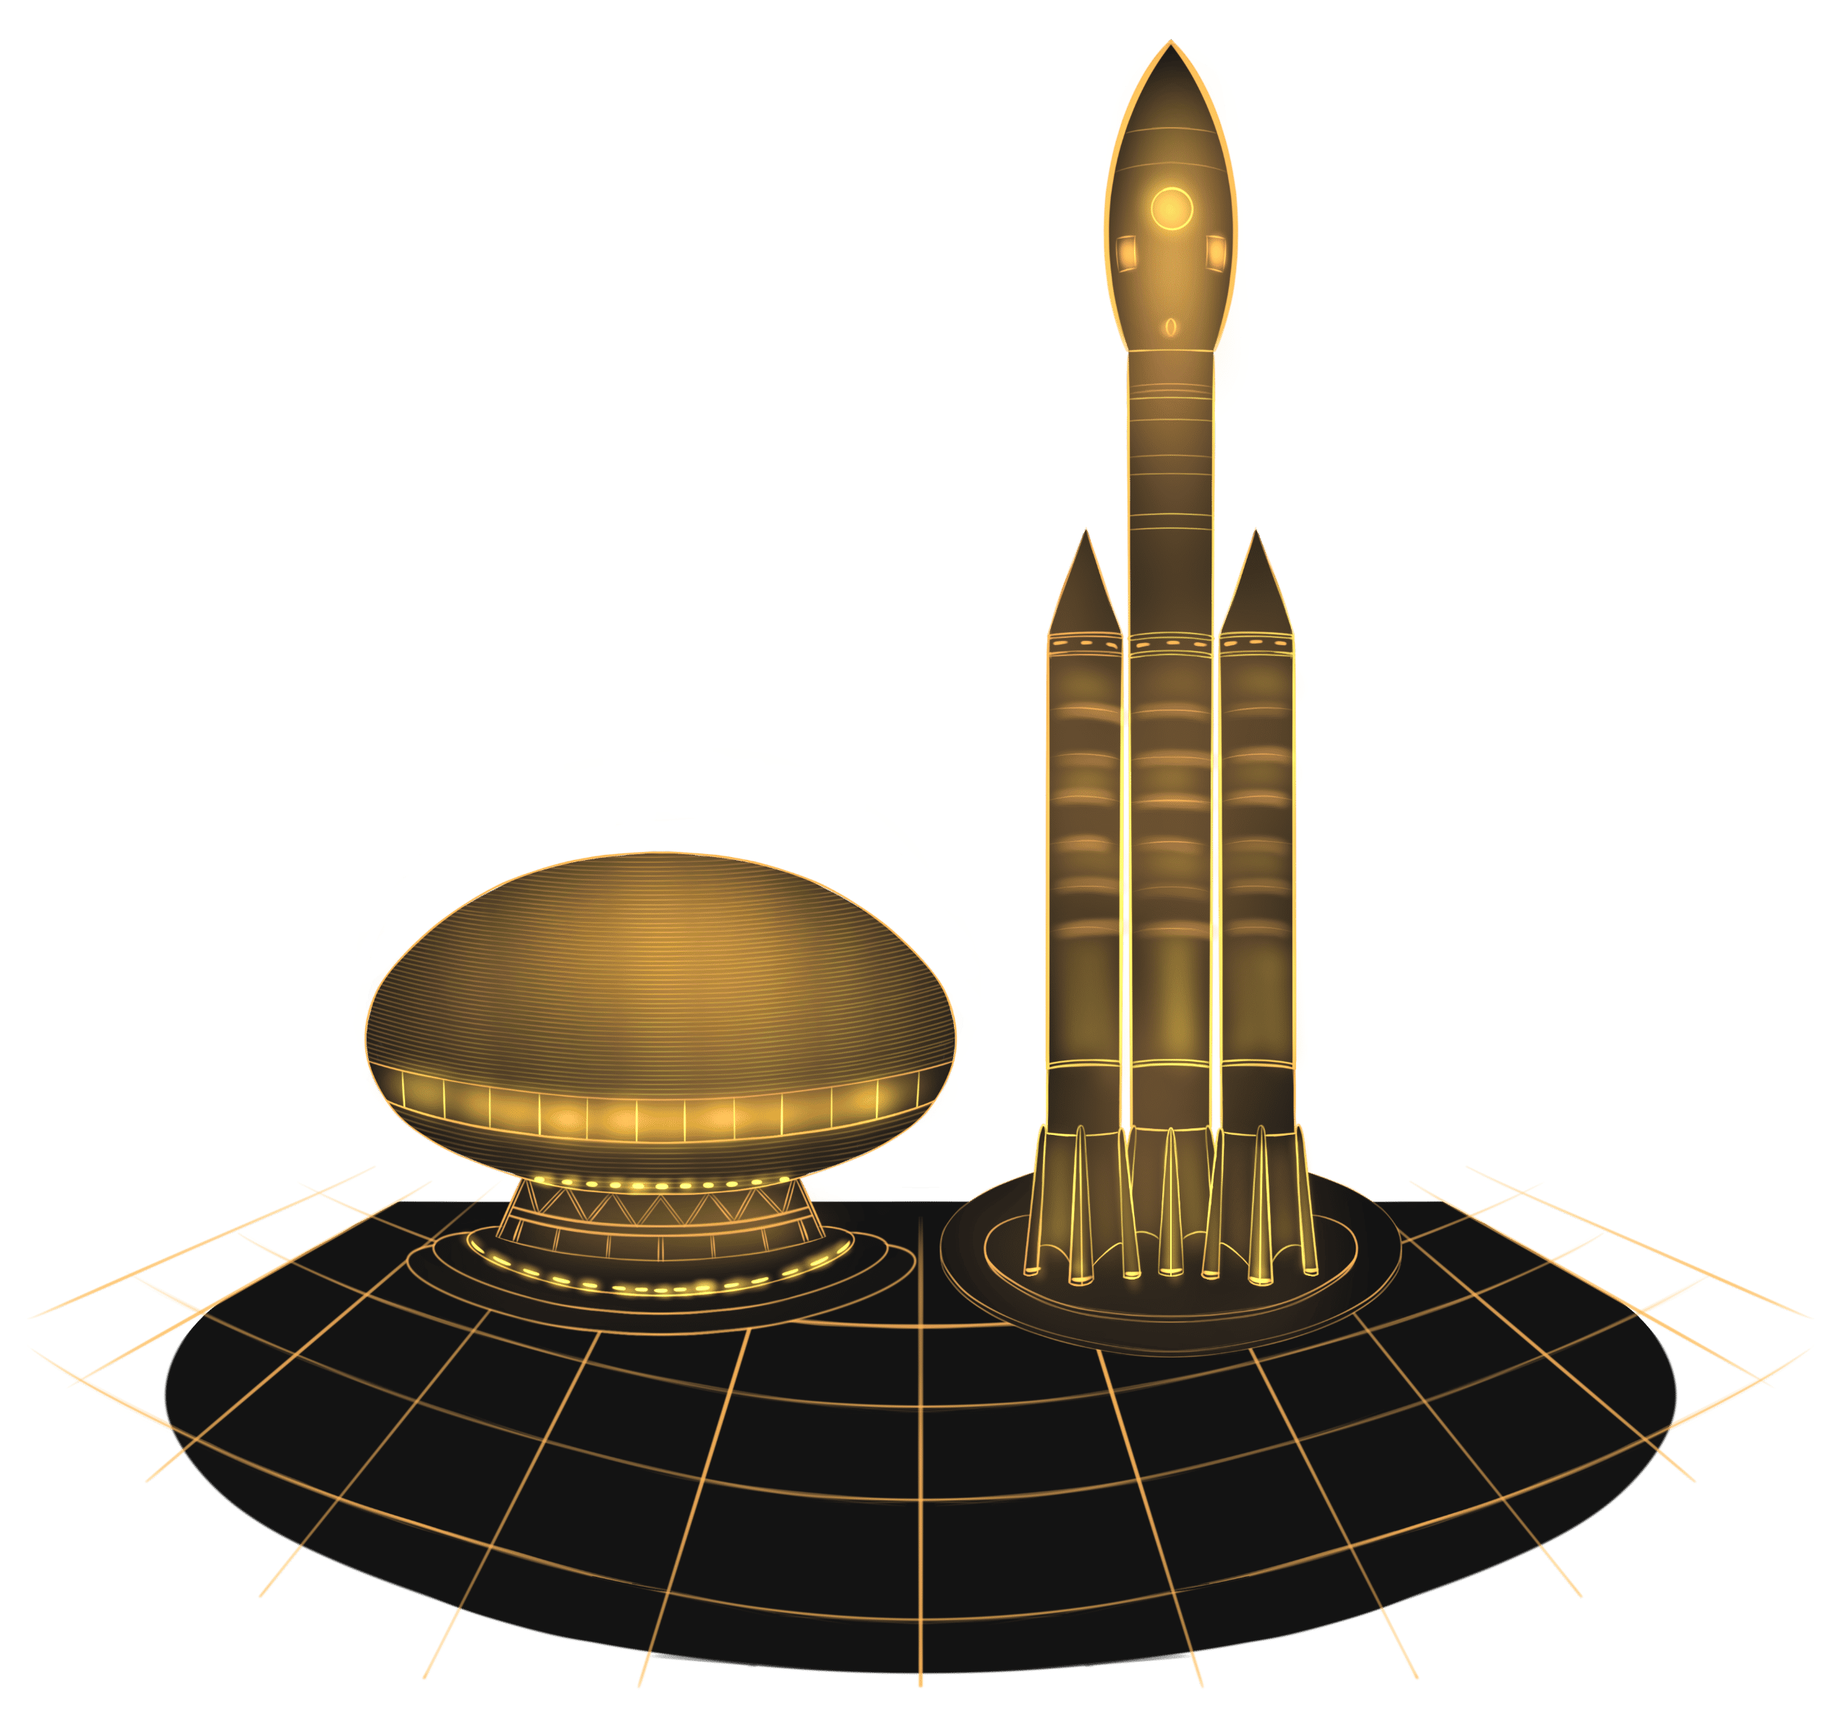
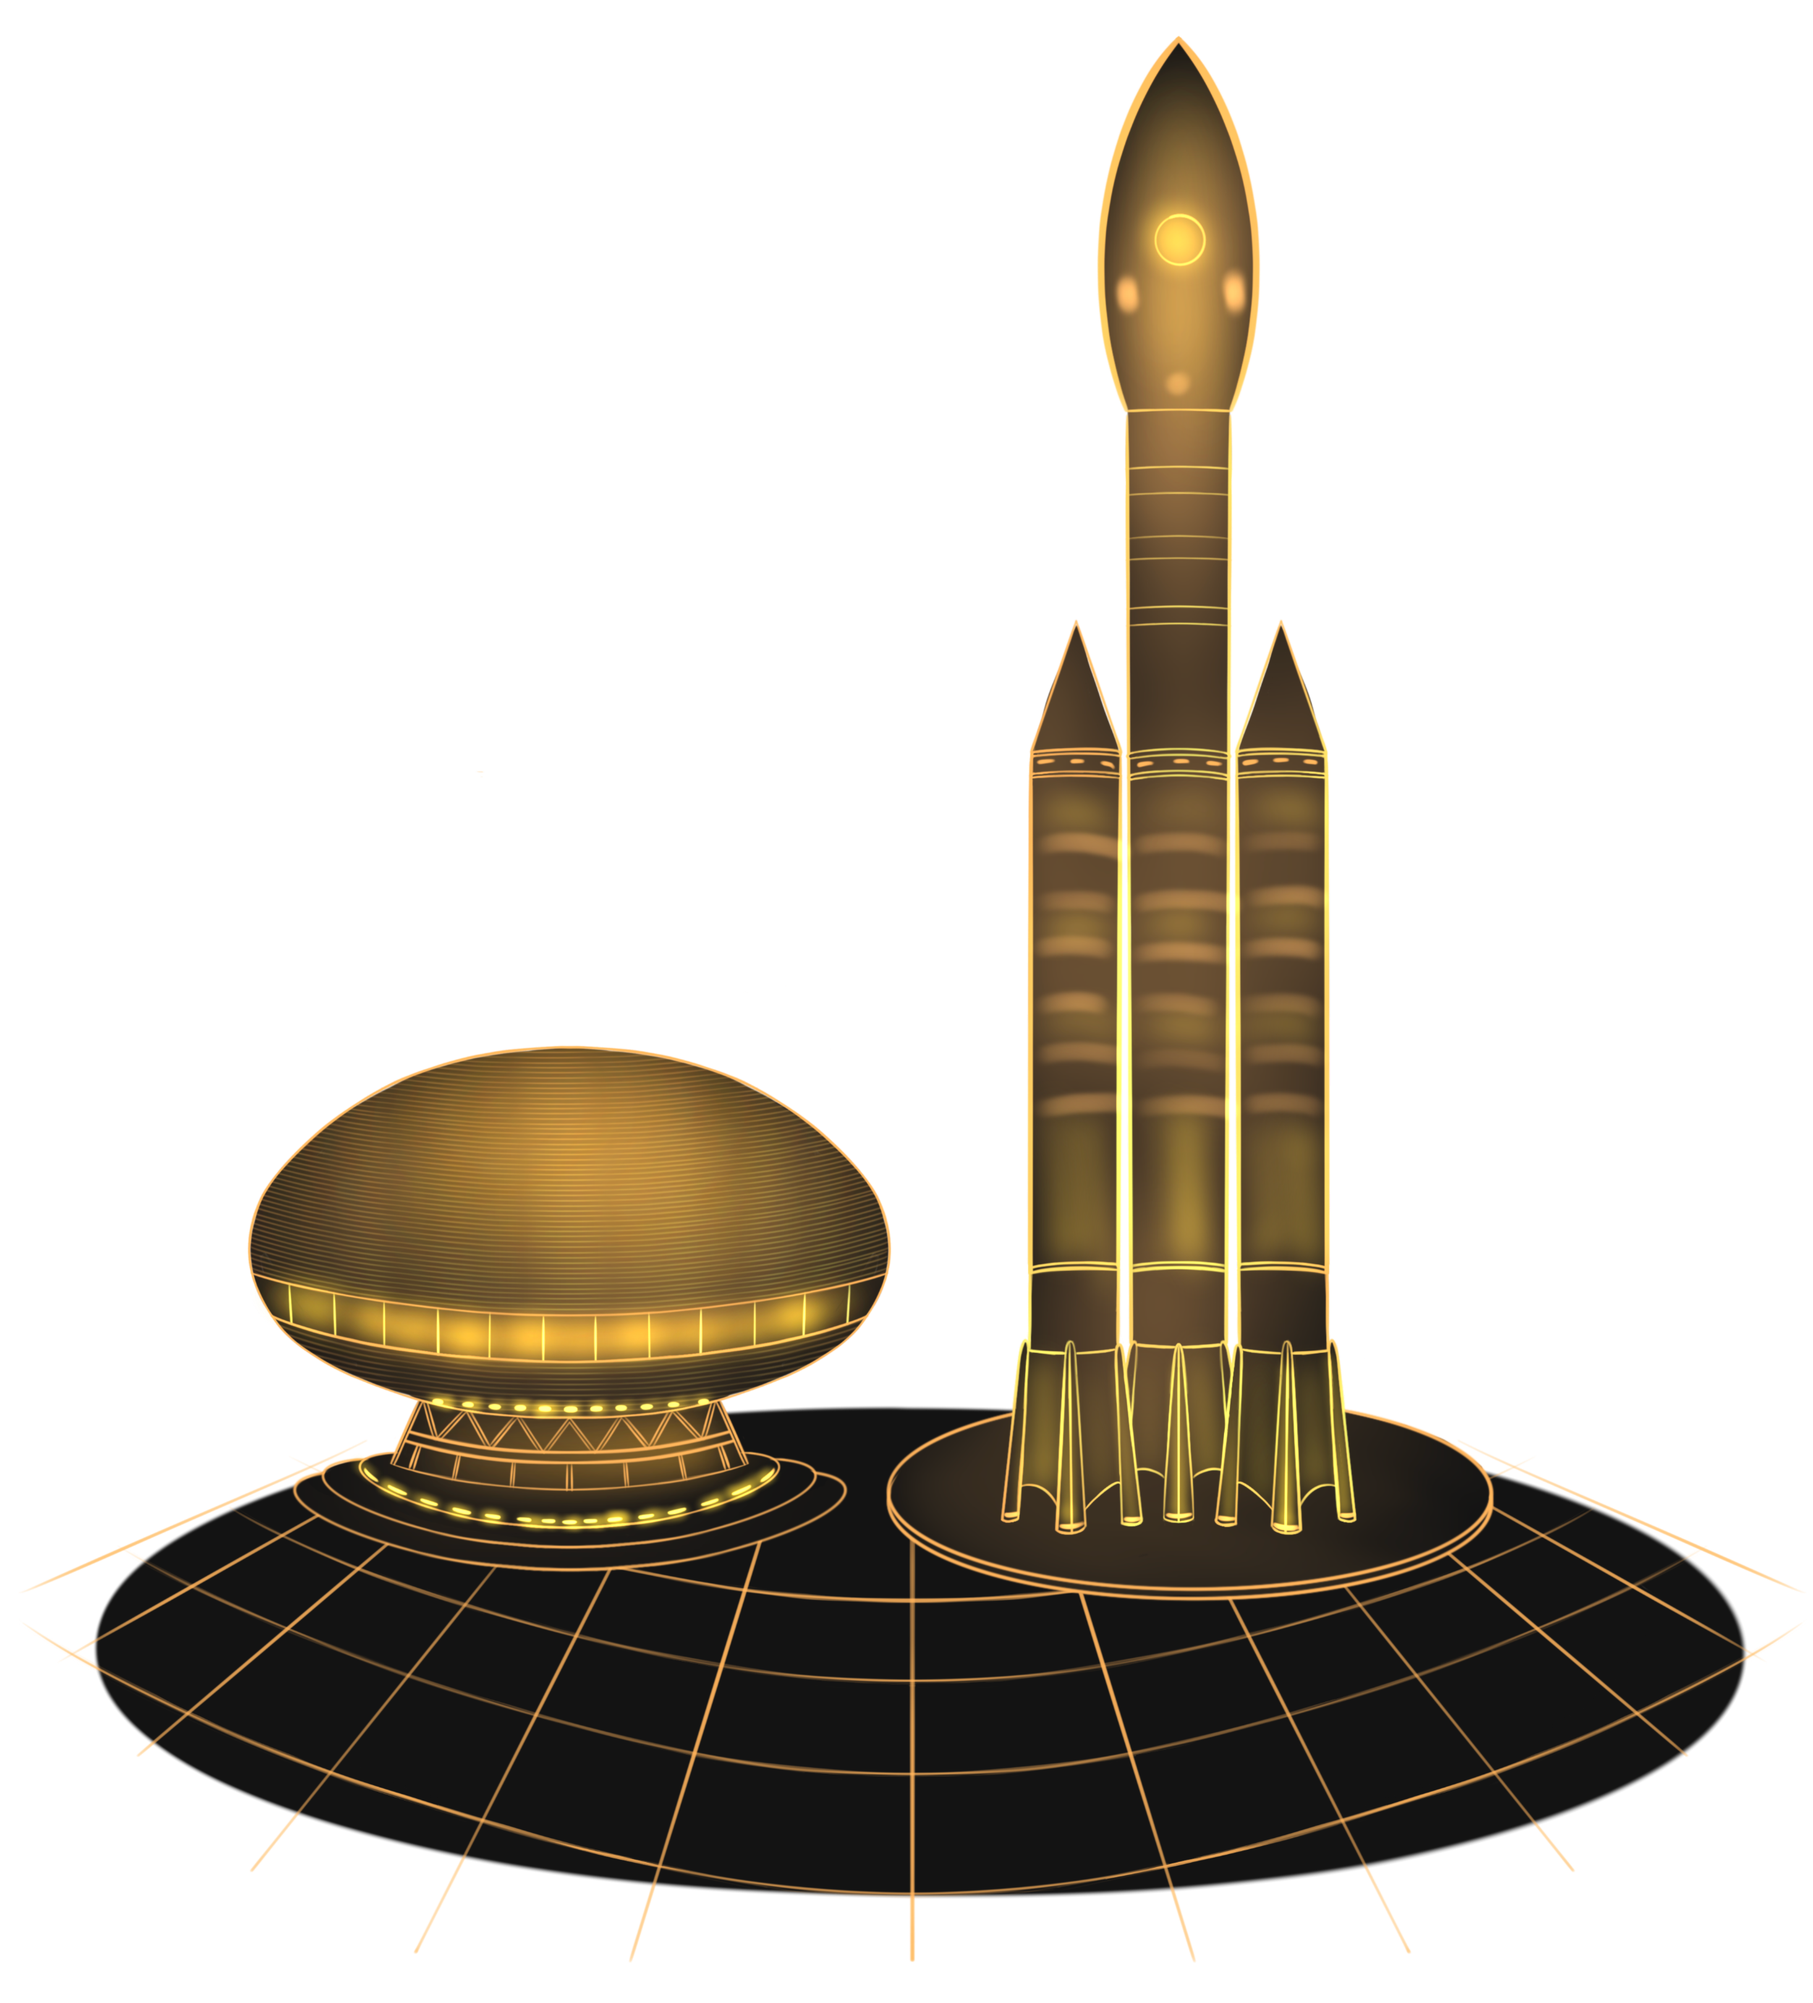
feat: add rocket and timer

Changed region(s): [[0.0311, 0.0, 0.9649, 0.9912]]

diff --git a/src/pages/cosmoport/cosmoport.ts b/src/pages/cosmoport/cosmoport.ts
@@ -2,36 +2,62 @@ function startCountdown() {
   const timerElement = document.getElementById('timer') as HTMLElement;
   if (!timerElement) return;
 
-  const timeParts = timerElement.textContent?.split(' : ').map(Number);
-  if (!timeParts || timeParts.length !== 3) return;
+  const STORAGE_KEY = 'countdown_time';
+  const START_TIME_KEY = 'countdown_start_time';
 
-  let hours = timeParts[0];
-  let minutes = timeParts[1];
-  let seconds = timeParts[2];
+  const initialParts = timerElement.textContent?.split(' : ').map(Number);
+  const totalSeconds =
+    (initialParts?.[0] || 0) * 3600 +
+    (initialParts?.[1] || 0) * 60 +
+    (initialParts?.[2] || 0);
 
-  function updateTimer() {
-    timerElement.textContent = `${hours.toString().padStart(2, '0')} : ${minutes.toString().padStart(2, '0')} : ${seconds.toString().padStart(2, '0')}`;
+  const savedStart = localStorage.getItem(START_TIME_KEY);
+  const now = Date.now();
 
-    if (hours === 0 && minutes === 0 && seconds === 0) {
+  let remainingSeconds: number;
+
+  if (savedStart) {
+    const elapsedSeconds = Math.floor((now - Number(savedStart)) / 1000);
+    remainingSeconds = Math.max(0, totalSeconds - elapsedSeconds);
+  } else {
+    localStorage.setItem(START_TIME_KEY, String(now));
+    remainingSeconds = totalSeconds;
+  }
+
+  function updateDisplay(seconds: number) {
+    const h = Math.floor(seconds / 3600);
+    const m = Math.floor((seconds % 3600) / 60);
+    const s = seconds % 60;
+    timerElement.textContent = `${h.toString().padStart(2, '0')} : ${m.toString().padStart(2, '0')} : ${s.toString().padStart(2, '0')}`;
+  }
+
+  updateDisplay(remainingSeconds);
+
+  if (remainingSeconds <= 0) {
+    timerElement.textContent = '00 : 00 : 00';
+    timerElement.style.color = 'red';
+    localStorage.removeItem(START_TIME_KEY);
+    localStorage.removeItem(STORAGE_KEY);
+    return;
+  }
+
+  const interval = setInterval(() => {
+    const currentStart = Number(
+      localStorage.getItem(START_TIME_KEY) || Date.now()
+    );
+    const elapsed = Math.floor((Date.now() - currentStart) / 1000);
+    const remaining = Math.max(0, totalSeconds - elapsed);
+
+    updateDisplay(remaining);
+
+    if (remaining <= 0) {
       clearInterval(interval);
       timerElement.textContent = '00 : 00 : 00';
       timerElement.style.color = 'red';
-      return;
+      localStorage.removeItem(START_TIME_KEY);
+      localStorage.removeItem(STORAGE_KEY);
     }
-
-    if (seconds > 0) {
-      seconds--;
-    } else if (minutes > 0) {
-      minutes--;
-      seconds = 59;
-    } else if (hours > 0) {
-      hours--;
-      minutes = 59;
-      seconds = 59;
-    }
-  }
-
-  const interval = setInterval(updateTimer, 1000);
+  }, 1000);
 
   window.addEventListener('beforeunload', () => clearInterval(interval));
   document.addEventListener('astro:before-swap', () => clearInterval(interval));

diff --git a/src/pages/building/building.ts b/src/pages/building/building.ts
@@ -14,22 +14,64 @@ function handleCarMoveAndRedirect() {
   link.removeAttribute('href');
   link.style.cursor = 'pointer';
 
-  setTimeout(() => {
-    car.setAttribute('data-moving', 'true');
-  }, 100);
-
-  link.addEventListener('click', (e) => {
-    e.preventDefault();
-
-    if (isAnimating) return;
-    isAnimating = true;
-
-    car.setAttribute('data-moving-second', 'true');
-
+  if (window.location.pathname.includes('cosmoport')) {
     setTimeout(() => {
-      window.location.href = originalHref;
-    }, 2000);
-  });
+      car.setAttribute('data-moving-second', 'true');
+    }, 100);
+
+    link.addEventListener('click', (e) => {
+      e.preventDefault();
+      if (isAnimating) return;
+      isAnimating = true;
+
+      const buildingImg = link.querySelector(
+        '[data-building]'
+      ) as HTMLImageElement;
+      if (buildingImg) {
+        buildingImg.src = '/assets/images/main/buildings/космопорт_здание.png';
+        buildingImg.style.position = 'relative';
+        buildingImg.style.width = '630px';
+        buildingImg.style.height = '375px';
+        buildingImg.style.top = '630px';
+        buildingImg.style.left = '-25px';
+
+        const rocketImg = document.createElement('img');
+        rocketImg.src = '/assets/images/main/buildings/космопорт_ракета.png';
+        rocketImg.style.position = 'relative';
+        rocketImg.style.width = '310px';
+        rocketImg.style.height = '610px';
+        rocketImg.style.top = '-55px';
+        rocketImg.style.left = '225px';
+        rocketImg.setAttribute('data-rocket', 'true');
+        link.appendChild(rocketImg);
+
+        requestAnimationFrame(() => {
+          rocketImg.setAttribute('data-rocket-launch', 'true');
+        });
+      }
+
+      setTimeout(() => {
+        window.location.href = originalHref;
+      }, 3000);
+    });
+  } else {
+    setTimeout(() => {
+      car.setAttribute('data-moving', 'true');
+    }, 100);
+
+    link.addEventListener('click', (e) => {
+      e.preventDefault();
+
+      if (isAnimating) return;
+      isAnimating = true;
+
+      car.setAttribute('data-moving-second', 'true');
+
+      setTimeout(() => {
+        window.location.href = originalHref;
+      }, 2000);
+    });
+  }
   //   if (building && window.location.pathname.includes('exhibition')) {
   //     building.style.position = 'relative';
   //     building.style.top = '-30px';

diff --git a/src/data/mainData.ts b/src/data/mainData.ts
@@ -333,10 +333,10 @@ export const buildings = [
     image: '/assets/images/main/buildings/космопорт.png',
     description:
       'Ракета к зведному скоплению Плеяды отправляется, просьба занять свои места.',
-    position: { top: 1308, left: 1568 },
+    position: { top: 1295, left: 1568 },
     link: '/cosmoport',
-    width: 278,
-    height: 259,
+    width: 280,
+    height: 295,
     videoMp4: '/assets/videos/go6 mp4.mp4',
     videoWebm: '/assets/videos/go6 webm.webm',
   },

diff --git a/src/pages/building/building.module.css b/src/pages/building/building.module.css
@@ -215,3 +215,15 @@
 .sound:hover svg {
   color: var(--color-text);
 }
+
+[data-rocket='true'] {
+  height: auto;
+  z-index: 20;
+  pointer-events: none;
+  opacity: 1;
+  transition: transform 3s ease-in;
+}
+
+[data-rocket-launch='true'] {
+  transform: translateY(-200vh);
+}
